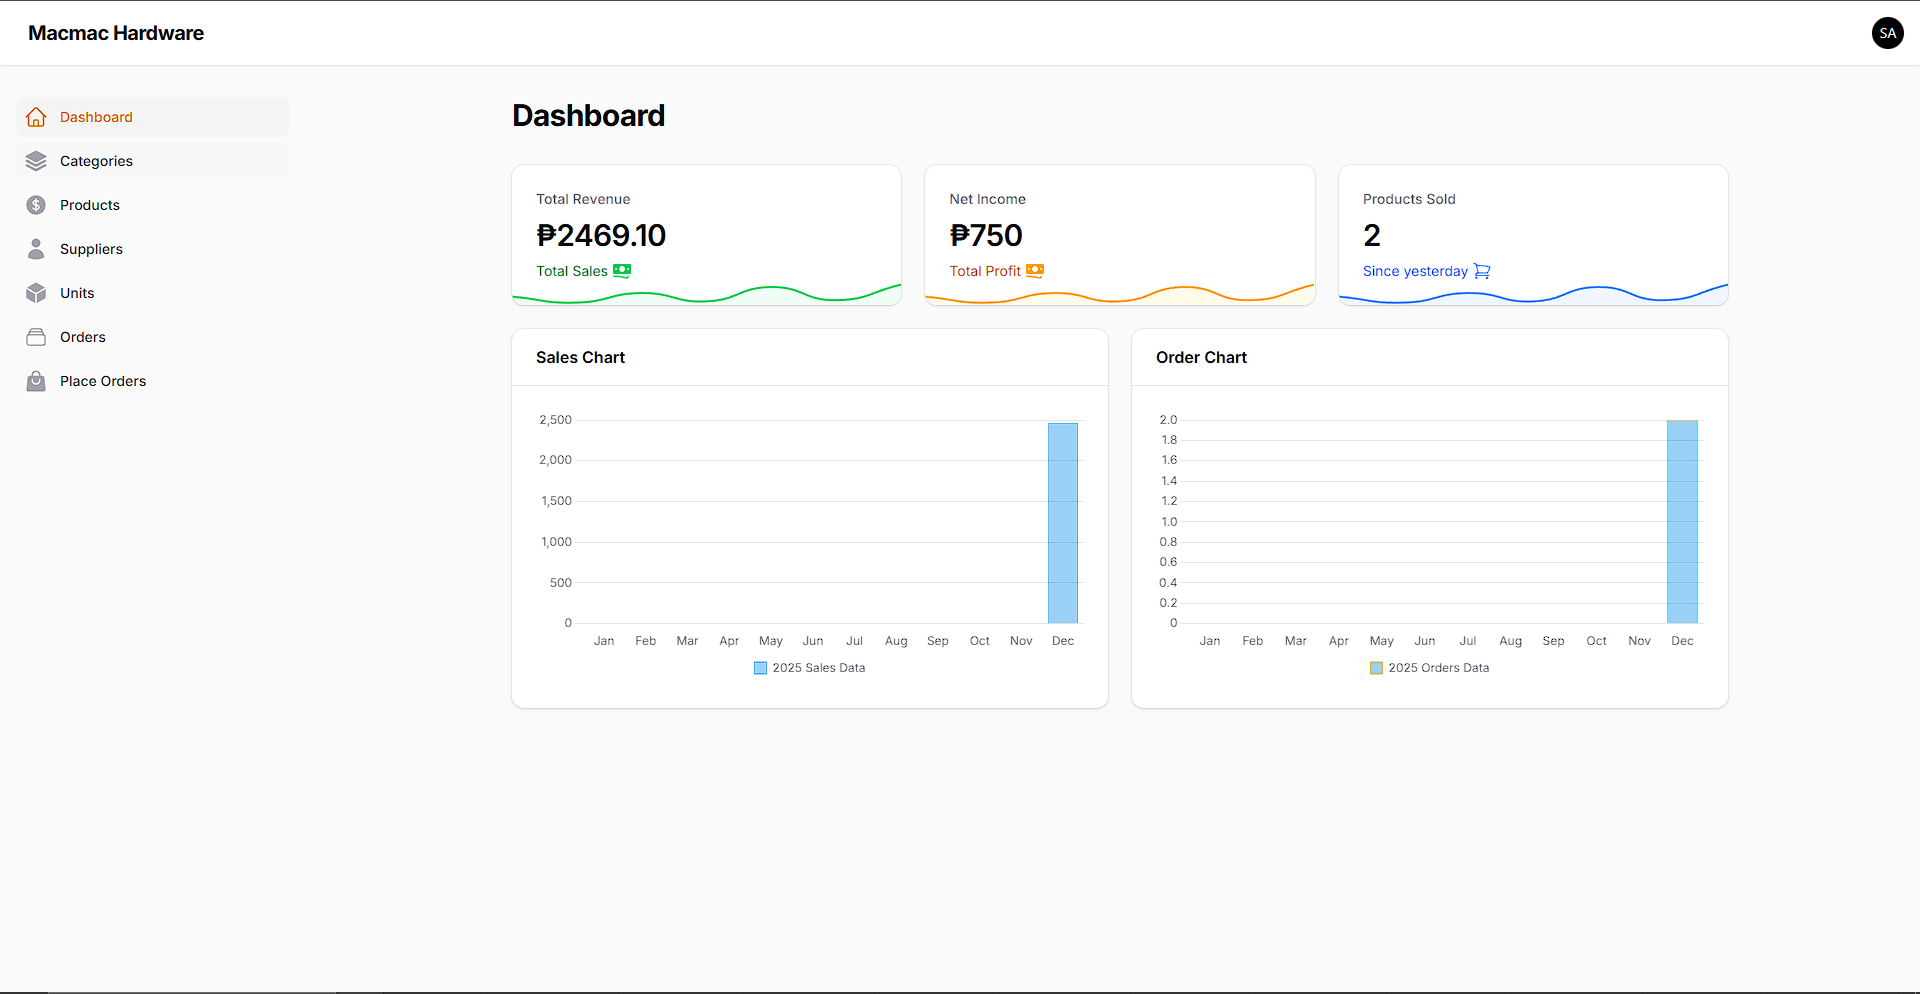
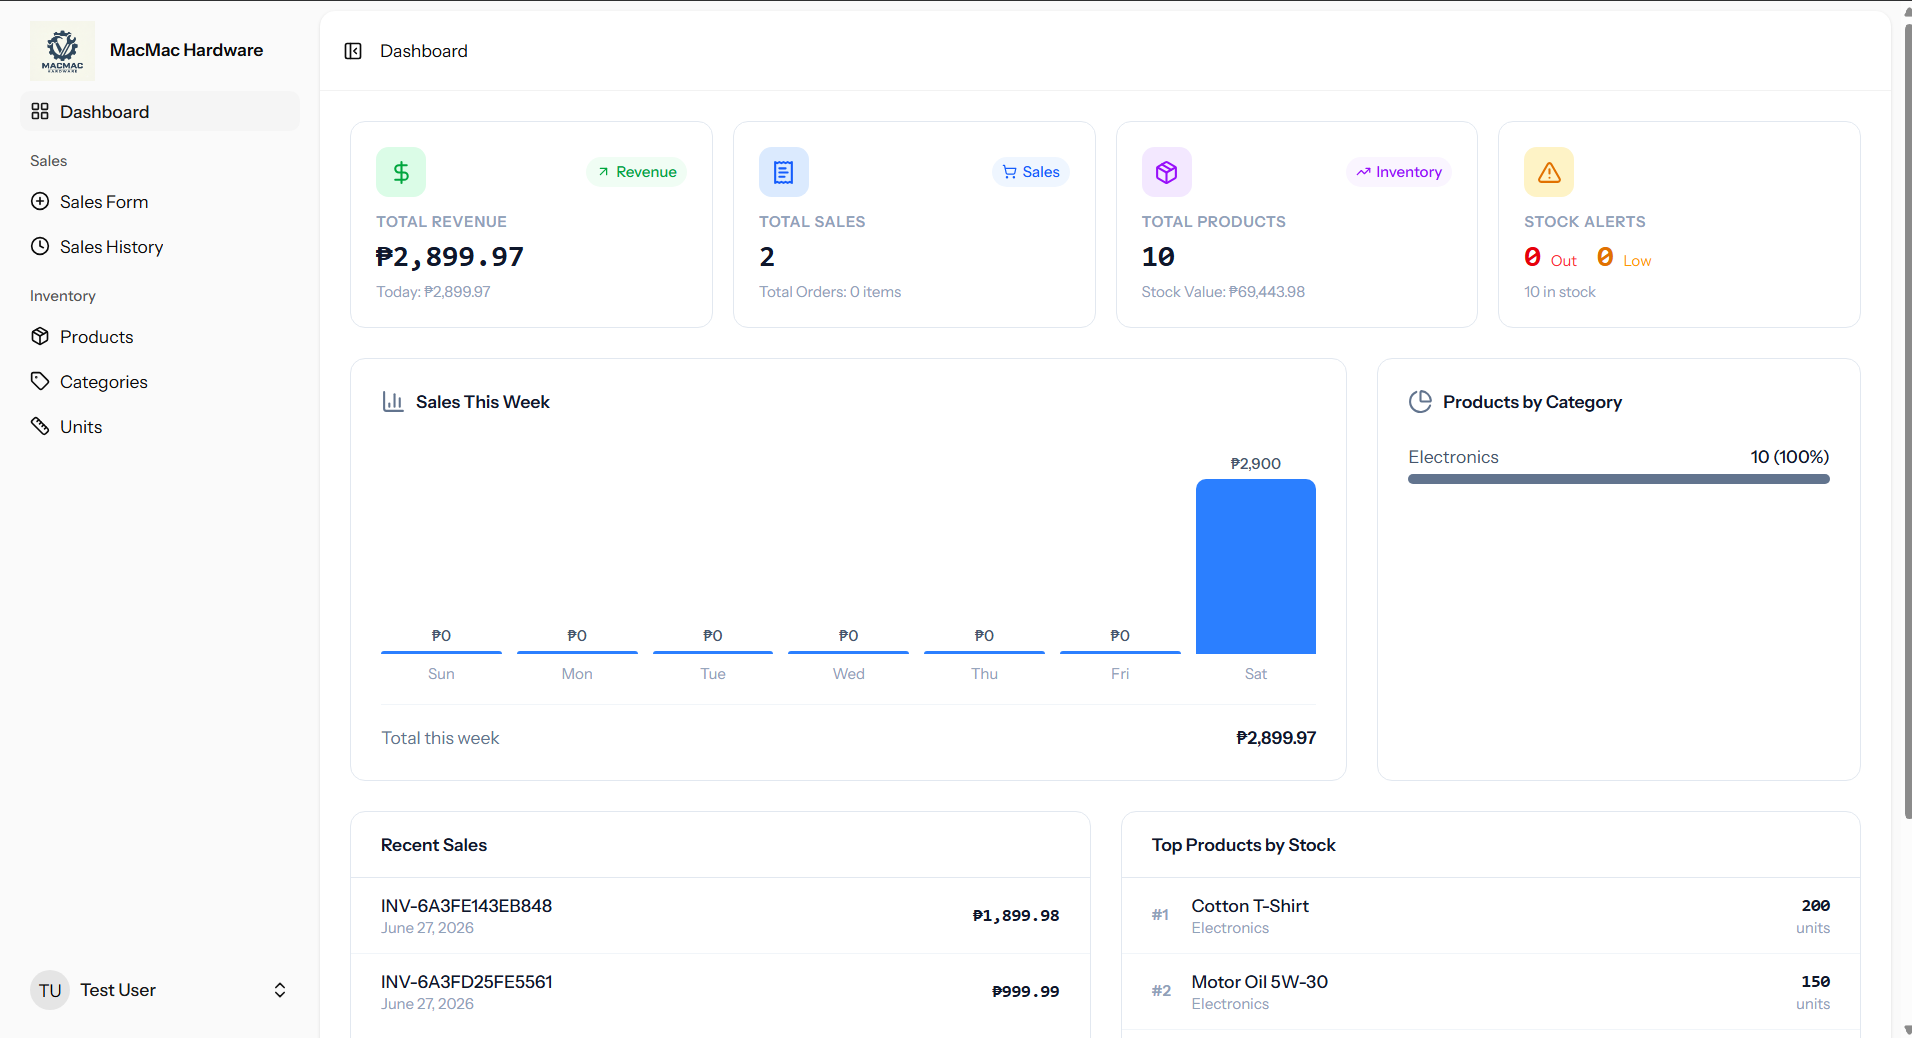
update

diff --git a/client/src/components/ui/project.tsx b/client/src/components/ui/project.tsx
@@ -94,7 +94,7 @@ export default function Projects() {
             images: [
                 { src: "/projects/skwebsite.png", alt: "Project 3 - Image 1" },
                 { src: "/projects/capsproj.PNG", alt: "Project 3 - Image 2" },
-                { src: "/projects/invpos.PNG", alt: "Project 3 - Image 3" },
+                { src: "/projects/invpos.png", alt: "Project 3 - Image 3" },
                 { src: "/projects/skwebsite.png", alt: "Project 3 - Image 4" },
             ],
             link: ""
@@ -109,11 +109,12 @@ export default function Projects() {
                 { name: "Laravel" },
                 { name: "TailwindCSS" },
                 { name: "HTML" },
-                { name: "Filament" },
-                { name: "Livewire" },
+                { name: "React" },
+                { name: "Inertia" },
+                { name: "TypeScript" },
             ],
             images: [
-                { src: "/projects/invpos.PNG", alt: "Project 2 - Image 1" },
+                { src: "/projects/invpos.png", alt: "Project 2 - Image 1" },
                 { src: "/projects/capsproj.PNG", alt: "Project 2 - Image 2" },
             ],
             link: ""